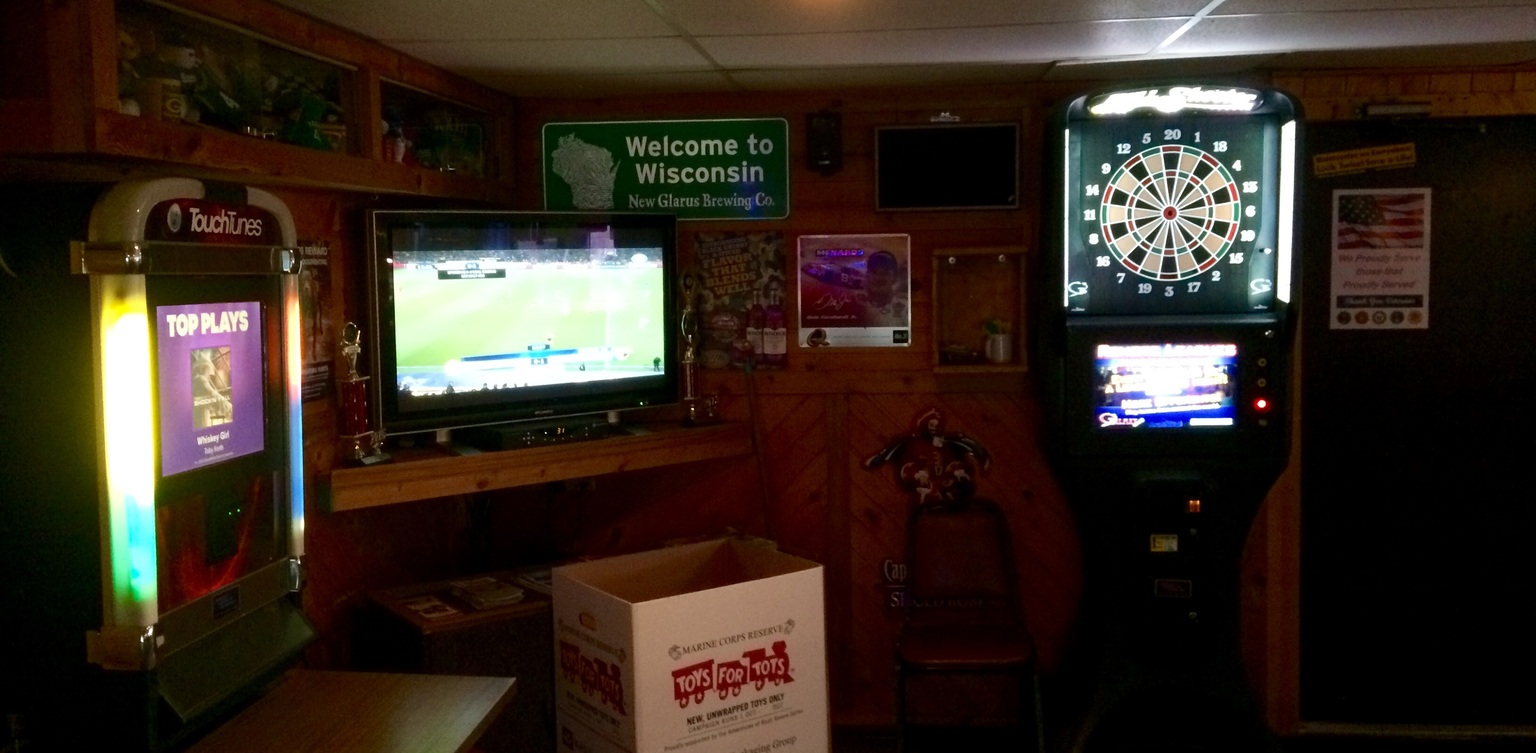
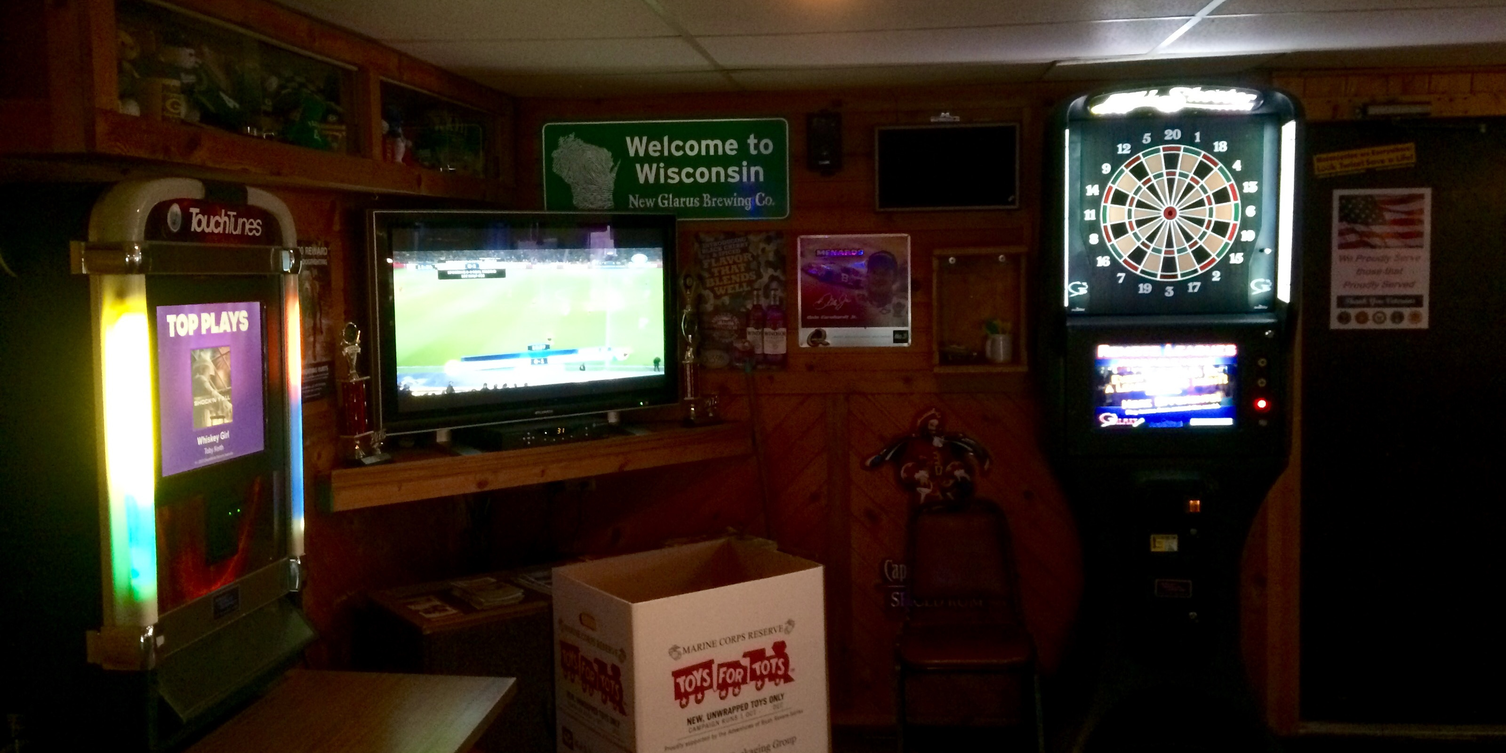
cropped photos to uniform size and added exterior photo

diff --git a/index.html b/index.html
@@ -47,6 +47,7 @@
 					<li data-target="#myCarousel" data-slide-to="1"></li>
 					<li data-target="#myCarousel" data-slide-to="2"></li>
 					<li data-target="#myCarousel" data-slide-to="3"></li>
+					<li data-target="#myCarousel" data-slide-to="4"></li>
 				</ol>
 
 				<div class="carousel-inner" role="listbox">
@@ -64,6 +65,10 @@
 
 					<div class="item">
 						<img src="snags_bar_pool_cropped.jpeg">
+					</div>
+
+					<div class="item">
+						<img src="snags_outside_cropped.jpeg">
 					</div>
 				</div>
 			</div>

diff --git a/main.css b/main.css
@@ -58,6 +58,7 @@ footer {
 
 #events-upcoming div .description{
 	font-size: 12pt;
+  margin-top: 10px;
   padding: 5px;
   padding-top: 10px;
 }
